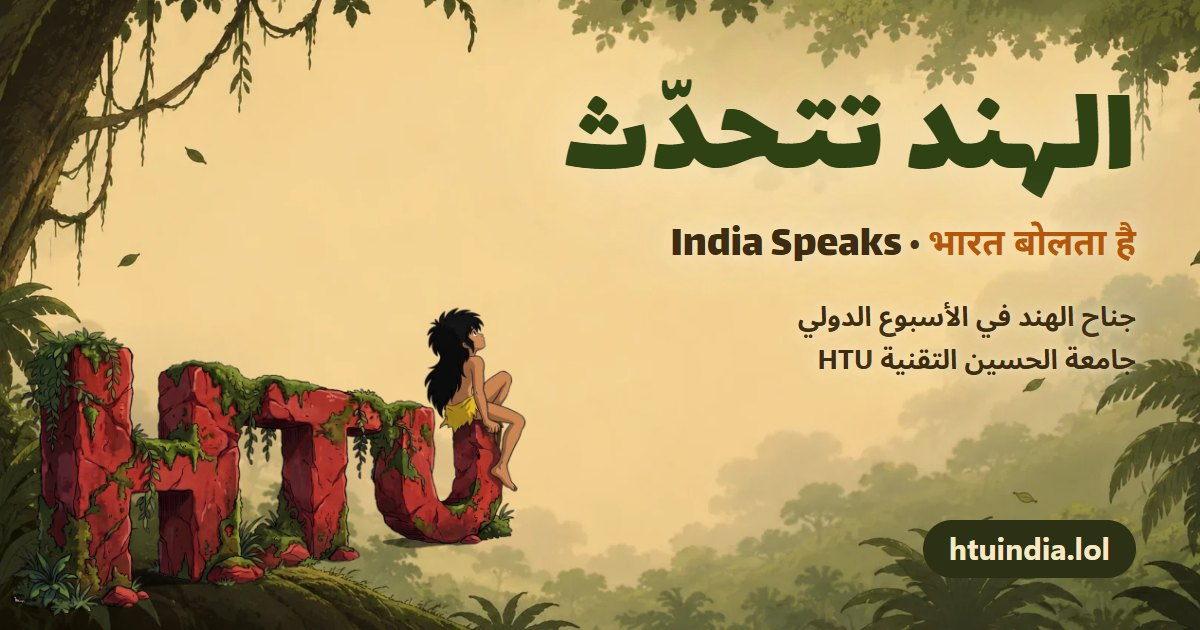
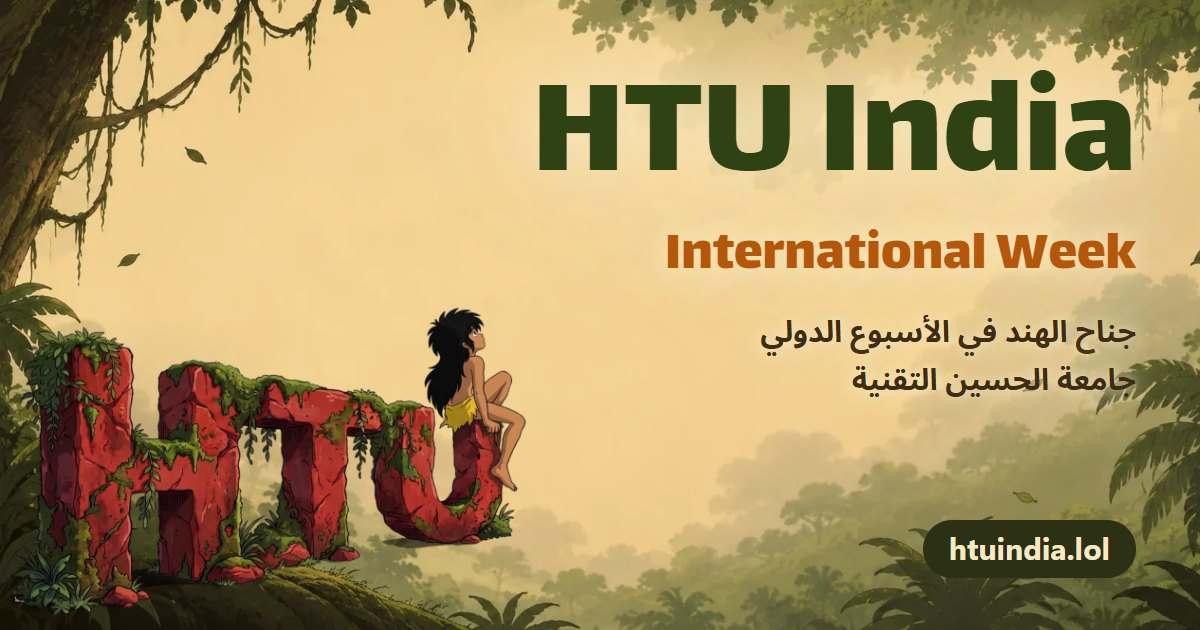
SEO: name the site HTU India, titles in English and Arabic
- Site name for Google and link previews is now "HTU India" (also known
  as "International Week HTU India", "HTU India Website", ...).
- Every page's title and description is in English and Arabic.
- The share image says HTU India · International Week.

Changed region(s): [[0.4317, 0.0905, 0.9558, 0.3016], [0.6167, 0.4825, 0.9558, 0.6333], [0.555, 0.3619, 0.9558, 0.4222]]

diff --git a/src/config/seo.js b/src/config/seo.js
@@ -9,55 +9,68 @@
 // Plain JS on purpose (no JSX, no browser APIs): Node imports it too.
 
 export const SITE_URL = 'https://www.htuindia.lol' // the apex htuindia.lol redirects here
-export const SITE_NAME = 'الهند تتحدّث · India Speaks'
-export const SHARE_IMAGE = { path: '/og-image.jpg', width: 1200, height: 630, alt: 'الهند تتحدّث: ولد يجلس على حروف HTU الكبيرة في غابة هندية' }
+export const SITE_NAME = 'HTU India'
+export const SHARE_IMAGE = {
+  path: '/og-image.jpg',
+  width: 1200,
+  height: 630,
+  alt: 'HTU India, International Week: a boy sitting on giant HTU letters in an Indian forest · الهند في الأسبوع الدولي HTU',
+}
 
-const BRAND = 'الهند تتحدّث'
+// Every title and description is in English and Arabic, so the site is found either way
+// ("HTU India", "International Week HTU India", "الهند الأسبوع الدولي HTU").
+const BRAND = 'HTU India'
 
 /** Every page that should be found on Google, by path. `file`: built by its own HTML entry (not the main app). */
 export const PAGES = {
   '/': {
-    title: 'الهند تتحدّث · India Speaks | جناح الهند في الأسبوع الدولي HTU',
+    title: 'HTU India | International Week HTU · جناح الهند في الأسبوع الدولي',
     description:
-      'جناح الهند في الأسبوع الدولي بجامعة الحسين التقنية (HTU): لغات الهند وخطوطها، اكتب اسمك بالخطوط الهندية، جولات 360° في الهند، وألعاب تلعبها بهاتفك.',
+      'HTU India: the India booth website for International Week at Al Hussein Technical University (HTU). موقع جناح الهند في الأسبوع الدولي بجامعة الحسين التقنية: لغات الهند وخطوطها، اسمك بالخطوط الهندية، جولات 360° وألعاب بالهاتف.',
   },
   '/map': {
-    title: `خريطة لغات الهند | ${BRAND}`,
-    description: 'اضغط على أي ولاية هندية لتعرف لغتها وخطّها، وشاهد اسمك مكتوبًا به.',
+    title: `India Languages Map · خريطة لغات الهند | ${BRAND}`,
+    description:
+      'Tap any Indian state to see its language and script, and your name written in it. اضغط على أي ولاية هندية لتعرف لغتها وخطّها، وشاهد اسمك مكتوبًا به.',
   },
   '/name': {
-    title: `اكتب اسمك بالخطوط الهندية | ${BRAND}`,
-    description: 'اكتب اسمك بالعربية أو الإنجليزية وشاهده مكتوبًا بخمسة خطوط هندية، حرفًا حرفًا.',
+    title: `Your Name in Indian Scripts · اكتب اسمك بالخطوط الهندية | ${BRAND}`,
+    description:
+      'Type your name in Arabic or English and see it written in five Indian scripts, letter by letter. اكتب اسمك وشاهده مكتوبًا بخمسة خطوط هندية، حرفًا حرفًا.',
   },
   '/game': {
-    title: `خمّن الخط: لعبة الخطوط الهندية | ${BRAND}`,
-    description: 'لعبة سريعة من خمس جولات: كلمة مكتوبة بخط هندي، فهل تعرف أيّ خط هو؟',
+    title: `Guess the Script · خمّن الخط | ${BRAND}`,
+    description:
+      'A quick five-round game: a word written in an Indian script, can you tell which one? لعبة سريعة من خمس جولات: هل تعرف بأي خط هندي كُتبت الكلمة؟',
   },
   '/tour': {
-    title: `جولات 360° في الهند | ${BRAND}`,
-    description: 'تجوّل في أماكن من الهند بزاوية 360°، وتحكّم بالجولة من هاتفك.',
+    title: `360° Tours of India · جولات 360° في الهند | ${BRAND}`,
+    description: 'Walk around places in India in 360° and steer the tour from your phone. تجوّل في أماكن من الهند بزاوية 360°، وتحكّم بالجولة من هاتفك.',
   },
   '/football': {
-    title: `كرة القدم بهاتفك | ${BRAND}`,
-    description: 'مباراة كرة قدم للاعبَين على شاشة جناح الهند، يتحكّم كل لاعب بهاتفه.',
+    title: `Phone Football · كرة القدم بهاتفك | ${BRAND}`,
+    description:
+      'A two-player football match on the India booth screen, each player controls with their phone. مباراة كرة قدم للاعبَين على شاشة جناح الهند، يتحكّم كل لاعب بهاتفه.',
   },
   '/chess': {
-    title: `الشطرنج وُلد في الهند | ${BRAND}`,
-    description: 'من «تشاتورانغا» إلى الشطرنج: قصة اللعبة التي وُلدت في الهند قبل نحو 1500 سنة، وتحدٍّ لألغاز الشطرنج على هاتفك.',
+    title: `Chess Was Born in India · الشطرنج وُلد في الهند | ${BRAND}`,
+    description:
+      'From chaturanga to chess: the game born in India about 1500 years ago, and a chess puzzle challenge on your phone. من «تشاتورانغا» إلى الشطرنج، وتحدٍّ لألغاز الشطرنج على هاتفك.',
   },
   '/tiles-qr': {
-    title: `راغا تايلز: بيانو بألحان هندية | ${BRAND}`,
-    description: 'بيانو بألحان هندية على هاتفك: المس البلاطات في وقتها.',
+    title: `Raga Tiles: Indian Melodies Piano · راغا تايلز | ${BRAND}`,
+    description: 'A piano tiles game with Indian melodies, on your phone. بيانو بألحان هندية على هاتفك: المس البلاطات في وقتها.',
   },
   '/tiles': {
     file: 'tiles.html',
-    title: `راغا تايلز · Raga Tiles | ${BRAND}`,
-    description: 'بيانو بألحان هندية على هاتفك: المس البلاطات في وقتها.',
+    title: `Raga Tiles · راغا تايلز | ${BRAND}`,
+    description: 'A piano tiles game with Indian melodies, on your phone. بيانو بألحان هندية على هاتفك: المس البلاطات في وقتها.',
   },
   '/chess/puzzles': {
     file: 'chess-puzzles.html',
-    title: `تحدّي ألغاز الشطرنج ♟ | ${BRAND}`,
-    description: 'تحدٍّ سريع لألغاز الشطرنج على هاتفك، من جناح الهند في الأسبوع الدولي بجامعة الحسين التقنية.',
+    title: `Chess Puzzle Challenge · تحدّي ألغاز الشطرنج | ${BRAND}`,
+    description:
+      'A quick chess puzzle challenge on your phone, from the India booth at HTU International Week. تحدٍّ سريع لألغاز الشطرنج على هاتفك، من جناح الهند في الأسبوع الدولي.',
   },
 }
 
@@ -88,6 +101,7 @@ export function seoHead(pathname) {
     '<meta property="og:type" content="website" />',
     `<meta property="og:site_name" content="${escape(SITE_NAME)}" />`,
     '<meta property="og:locale" content="ar_AR" />',
+    '<meta property="og:locale:alternate" content="en_US" />',
     `<meta property="og:title" content="${escape(p.title)}" />`,
     `<meta property="og:description" content="${escape(p.description)}" />`,
     `<meta property="og:url" content="${p.url}" />`,
@@ -103,7 +117,7 @@ export function seoHead(pathname) {
       '@context': 'https://schema.org',
       '@type': 'WebSite',
       name: SITE_NAME,
-      alternateName: ['India Speaks', 'الهند تتحدث', 'HTU India'],
+      alternateName: ['HTU India Website', 'International Week HTU India', 'HTU International Week India', 'الهند في الأسبوع الدولي HTU', 'جناح الهند HTU'],
       url: SITE_URL + '/',
       inLanguage: 'ar',
       description: p.description,

diff --git a/DEPLOY.md b/DEPLOY.md
@@ -145,7 +145,8 @@ Google still has to be told the site exists. Do this once:
 What to expect:
 
 - A new site shows up within a few days to about two weeks.
-- People will find it by searching its name, for example "htuindia" or "الهند تتحدث HTU".
+- People will find it by searching its name, for example "HTU India", "International Week HTU India" or
+  "الهند الأسبوع الدولي HTU". The titles and descriptions are in English and Arabic for that reason.
 - Wide searches such as "لغات الهند" are dominated by big, older sites. Links to the site help most
   (HTU's pages, Instagram posts and stories about International Week), and so does everyone visiting
   it from the booth's QR codes.
